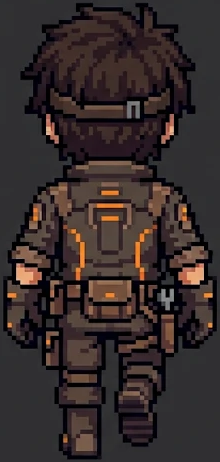
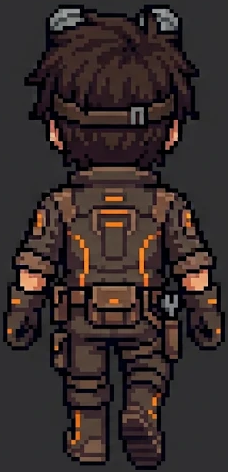
Fix character 3's back_walk2 to be a real second walk frame
The previous back_walk2.png was a near-duplicate of back_walk1.png
(mean pixel diff ~2.4/255). Regenerated with a natural, moderate
stride (first attempt overcorrected into an exaggerated wide lunge,
second attempt landed right - mean diff now ~15/255, in line with the
other characters' real walk-frame pairs). Character 3 is now complete.

Claude-Session: https://claude.ai/code/session_01EMk79Rf2pRzttVDCo23V1S

diff --git a/ART_STYLE_GUIDE.md b/ART_STYLE_GUIDE.md
@@ -723,23 +723,28 @@ Do NOT create a detailed pixel-art full-body illustration.
 Create a SMALL, SIMPLE, GAME-READY 2D RPG SPRITE in the exact style of the "SPRITES" section from the provided NEON PROTOCOL image.
 ```
 
-**Personagem 3 quase completo.** Frente, costas e lado, arquivos reais em
+**Personagem 3 completo.** Frente, costas e lado, arquivos reais em
 `assets/character3/` (mesmo padrao de nomes dos personagens 1 e 2). Assim
 como o personagem 2, a primeira geracao da frente saiu com fundo cinza
 claro (nao o cinza-chumbo escuro padrao) - resolvido pedindo de novo com
 enfase em "flat DARK background (dark charcoal/navy gray, NOT light
-gray)". Dois detalhes de duplicata de imagem aconteceram nessa leva
-(ambos identificados comparando os pixels das duas imagens antes de pedir
-de novo, nao so por inspecao visual):
+gray)". Duas rodadas de duplicata de imagem aconteceram nessa leva (ambas
+identificadas comparando os pixels das duas imagens antes de pedir de
+novo, nao so por inspecao visual):
 
 - Na frente, a mesma imagem parada foi enviada duas vezes por engano no
   lugar da pose de passo 2 - corrigido, `front_walk2.png` agora e uma
   pose de caminhada de verdade.
-- **Pendente:** `back_walk2.png` tambem e um quase-duplicado de
-  `back_walk1.png` (diferenca media de pixel ~2.4/255, bem abaixo da
-  diferenca real entre passos de caminhada nos outros personagens) - a
-  pose de costas passo 2 ainda precisa ser regerada com as pernas
-  claramente separadas antes desse personagem ser considerado fechado.
+- De costas, `back_walk2.png` tambem saiu quase-duplicado de
+  `back_walk1.png` na primeira tentativa (diferenca media de pixel
+  ~2.4/255). A primeira regeracao exagerou (pernas afastadas demais tipo
+  passada larga); a segunda pediu "natural, moderate walking stride...
+  NOT an exaggerated wide lunge" e saiu certo (diferenca media subiu pra
+  ~15/255, na mesma faixa das poses de caminhada reais dos outros
+  personagens). Ficou com um pequeno artefato visual (duas formas cinza
+  pontudas acima da cabeca, tipo orelhas) que o usuario decidiu manter -
+  nao e um traco de identidade do personagem, so uma rendericao estranha
+  dessa imagem especifica.
 
 **Ainda nao integrado no jogo**, mesma situacao do personagem 2 - sem
 tela de escolha de personagem ainda, os assets ficam guardados em
@@ -750,6 +755,4 @@ tela de escolha de personagem ainda, os assets ficam guardados em
 - Tela/mecanica de escolha de personagem (NFT) ainda nao existe - e o
   que vai decidir como/quando os personagens 2, 3 e 4 entram de fato no
   jogo.
-- Personagem 3: `assets/character3/back_walk2.png` precisa ser
-  regerado (ver acima) - e um quase-duplicado da pose de costas parada.
 - Personagem 4 ainda nao comecou.
